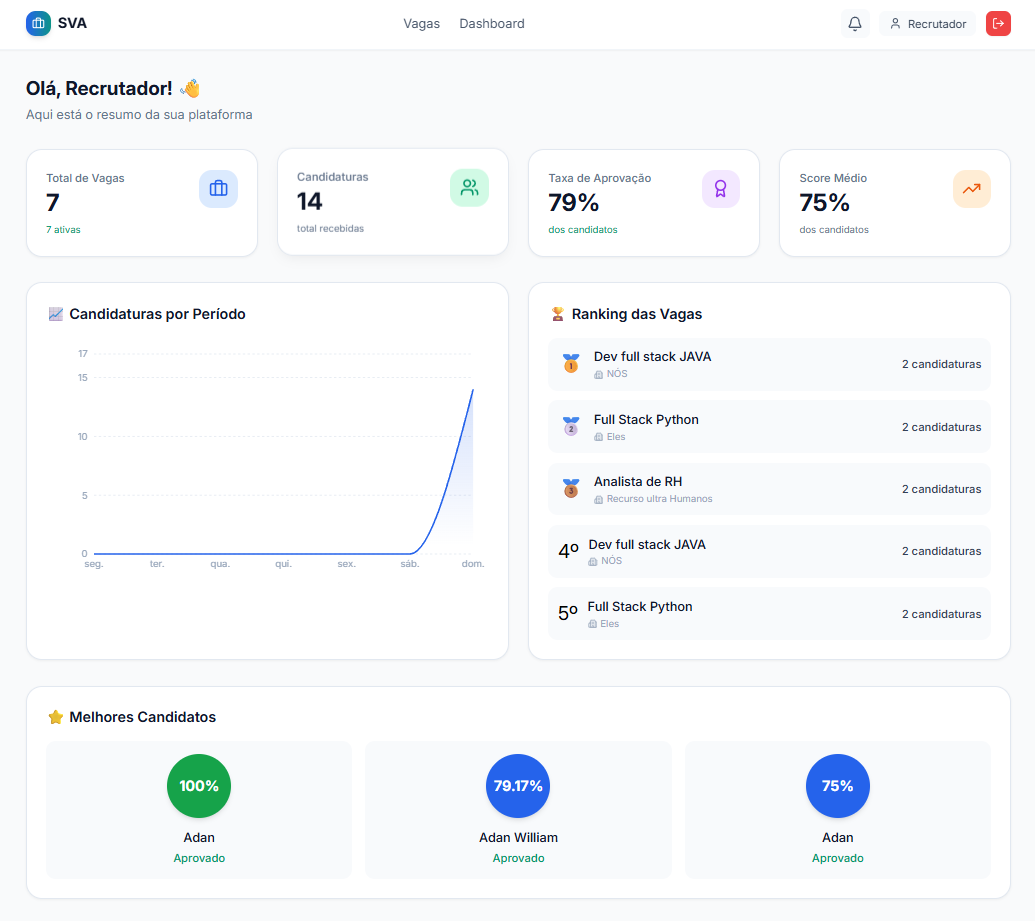
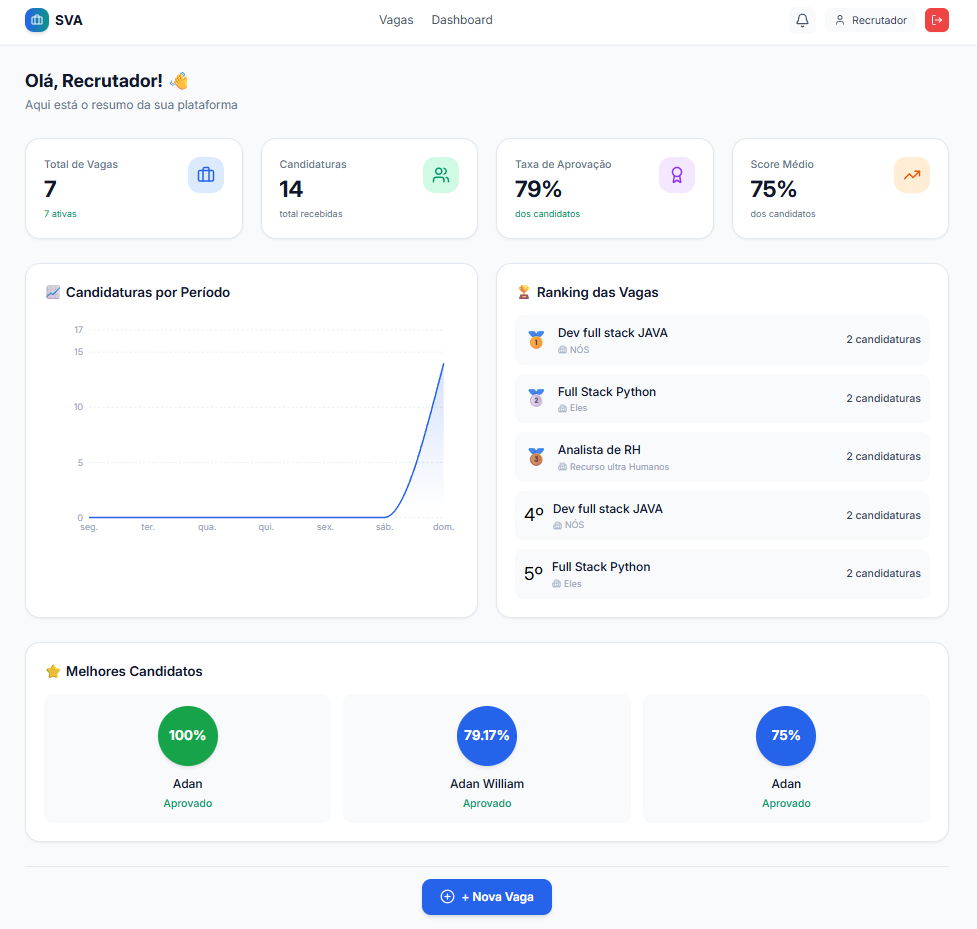
update

diff --git a/frontend/src/pages/PostJob.jsx b/frontend/src/pages/PostJob.jsx
@@ -2,7 +2,7 @@
 import { useNavigate } from 'react-router-dom';
 import { jobsAPI } from '../services/jobs';
 import { toast } from 'react-toastify';
-import { Briefcase, MapPin, DollarSign, FileText, List, Hash, X, Send } from 'lucide-react';
+import { Briefcase, MapPin, DollarSign, FileText, List, Hash, X, Send, Building2, Tag } from 'lucide-react';
 
 const PostJob = () => {
   const navigate = useNavigate();
@@ -42,101 +42,191 @@ const PostJob = () => {
   };
 
   return (
-    <div className="min-h-screen py-12 px-4 bg-gray-50 dark:bg-gray-900">
+    <div className="min-h-screen bg-slate-50 py-12 px-4">
       <div className="max-w-4xl mx-auto">
-        <div className="bg-white dark:bg-gray-800 rounded-2xl shadow-lg overflow-hidden">
-          <div className="gradient-bg px-8 py-6">
-            <div className="flex items-center gap-3">
-              <div className="bg-white/20 p-2 rounded-xl">
-                <Briefcase className="w-6 h-6 text-white" />
-              </div>
-              <div>
-                <h1 className="text-2xl font-bold text-white">Publicar Nova Vaga</h1>
-                <p className="text-white/80 text-sm mt-1">Preencha os dados abaixo para criar uma nova oportunidade</p>
-              </div>
-            </div>
-          </div>
+        {/* Header */}
+        <div className="mb-8">
+          <h1 className="text-2xl font-bold text-slate-900">Publicar Nova Vaga</h1>
+          <p className="text-slate-500 mt-1">Preencha os dados abaixo para criar uma nova oportunidade</p>
+        </div>
 
+        {/* Form Card */}
+        <div className="bg-white rounded-2xl shadow-sm border border-slate-200 overflow-hidden">
           <form onSubmit={handleSubmit} className="p-8 space-y-6">
             <div className="grid md:grid-cols-2 gap-6">
+              {/* Título */}
               <div className="md:col-span-2">
-                <label className="block text-sm font-medium text-gray-700 dark:text-gray-300 mb-2">Título da Vaga *</label>
+                <label className="block text-sm font-medium text-slate-700 mb-2">
+                  Título da Vaga <span className="text-red-500">*</span>
+                </label>
                 <div className="relative">
                   <div className="absolute inset-y-0 left-0 pl-3 flex items-center pointer-events-none">
-                    <Briefcase className="h-5 w-5 text-gray-400" />
+                    <Briefcase className="h-5 w-5 text-slate-400" />
                   </div>
-                  <input type="text" name="title" required className="w-full pl-10 pr-3 py-3 border border-gray-300 dark:border-gray-600 rounded-xl focus:outline-none focus:ring-2 focus:ring-blue-500 dark:bg-gray-700 dark:text-white transition" placeholder="Ex: Desenvolvedor Full Stack" value={formData.title} onChange={handleChange} />
+                  <input
+                    type="text"
+                    name="title"
+                    required
+                    className="w-full pl-10 pr-3 py-3 border border-slate-200 rounded-xl focus:outline-none focus:ring-2 focus:ring-blue-500 focus:border-blue-500 transition bg-white text-slate-900"
+                    placeholder="Ex: Desenvolvedor Full Stack"
+                    value={formData.title}
+                    onChange={handleChange}
+                  />
                 </div>
               </div>
 
+              {/* Empresa */}
               <div className="md:col-span-2">
-                <label className="block text-sm font-medium text-gray-700 dark:text-gray-300 mb-2">Empresa *</label>
+                <label className="block text-sm font-medium text-slate-700 mb-2">
+                  Empresa <span className="text-red-500">*</span>
+                </label>
                 <div className="relative">
                   <div className="absolute inset-y-0 left-0 pl-3 flex items-center pointer-events-none">
-                    <Briefcase className="h-5 w-5 text-gray-400" />
+                    <Building2 className="h-5 w-5 text-slate-400" />
                   </div>
-                  <input type="text" name="company" required className="w-full pl-10 pr-3 py-3 border border-gray-300 dark:border-gray-600 rounded-xl focus:outline-none focus:ring-2 focus:ring-blue-500 dark:bg-gray-700 dark:text-white transition" placeholder="Nome da empresa" value={formData.company} onChange={handleChange} />
+                  <input
+                    type="text"
+                    name="company"
+                    required
+                    className="w-full pl-10 pr-3 py-3 border border-slate-200 rounded-xl focus:outline-none focus:ring-2 focus:ring-blue-500 focus:border-blue-500 transition bg-white text-slate-900"
+                    placeholder="Nome da empresa"
+                    value={formData.company}
+                    onChange={handleChange}
+                  />
                 </div>
               </div>
 
+              {/* Localização */}
               <div>
-                <label className="block text-sm font-medium text-gray-700 dark:text-gray-300 mb-2">Localização</label>
+                <label className="block text-sm font-medium text-slate-700 mb-2">
+                  Localização
+                </label>
                 <div className="relative">
                   <div className="absolute inset-y-0 left-0 pl-3 flex items-center pointer-events-none">
-                    <MapPin className="h-5 w-5 text-gray-400" />
+                    <MapPin className="h-5 w-5 text-slate-400" />
                   </div>
-                  <input type="text" name="location" className="w-full pl-10 pr-3 py-3 border border-gray-300 dark:border-gray-600 rounded-xl focus:outline-none focus:ring-2 focus:ring-blue-500 dark:bg-gray-700 dark:text-white transition" placeholder="São Paulo, SP ou Remoto" value={formData.location} onChange={handleChange} />
+                  <input
+                    type="text"
+                    name="location"
+                    className="w-full pl-10 pr-3 py-3 border border-slate-200 rounded-xl focus:outline-none focus:ring-2 focus:ring-blue-500 focus:border-blue-500 transition bg-white text-slate-900"
+                    placeholder="São Paulo, SP ou Remoto"
+                    value={formData.location}
+                    onChange={handleChange}
+                  />
                 </div>
               </div>
 
+              {/* Faixa Salarial */}
               <div>
-                <label className="block text-sm font-medium text-gray-700 dark:text-gray-300 mb-2">Faixa Salarial</label>
+                <label className="block text-sm font-medium text-slate-700 mb-2">
+                  Faixa Salarial
+                </label>
                 <div className="relative">
                   <div className="absolute inset-y-0 left-0 pl-3 flex items-center pointer-events-none">
-                    <DollarSign className="h-5 w-5 text-gray-400" />
+                    <DollarSign className="h-5 w-5 text-slate-400" />
                   </div>
-                  <input type="text" name="salary_range" className="w-full pl-10 pr-3 py-3 border border-gray-300 dark:border-gray-600 rounded-xl focus:outline-none focus:ring-2 focus:ring-blue-500 dark:bg-gray-700 dark:text-white transition" placeholder="R$ 5.000 - R$ 8.000" value={formData.salary_range} onChange={handleChange} />
+                  <input
+                    type="text"
+                    name="salary_range"
+                    className="w-full pl-10 pr-3 py-3 border border-slate-200 rounded-xl focus:outline-none focus:ring-2 focus:ring-blue-500 focus:border-blue-500 transition bg-white text-slate-900"
+                    placeholder="R$ 5.000 - R$ 8.000"
+                    value={formData.salary_range}
+                    onChange={handleChange}
+                  />
                 </div>
               </div>
 
+              {/* Descrição */}
               <div className="md:col-span-2">
-                <label className="block text-sm font-medium text-gray-700 dark:text-gray-300 mb-2">Descrição da Vaga *</label>
+                <label className="block text-sm font-medium text-slate-700 mb-2">
+                  Descrição da Vaga <span className="text-red-500">*</span>
+                </label>
                 <div className="relative">
                   <div className="absolute top-3 left-3 pointer-events-none">
-                    <FileText className="h-5 w-5 text-gray-400" />
+                    <FileText className="h-5 w-5 text-slate-400" />
                   </div>
-                  <textarea name="description" required rows="6" className="w-full pl-10 pr-3 py-3 border border-gray-300 dark:border-gray-600 rounded-xl focus:outline-none focus:ring-2 focus:ring-blue-500 dark:bg-gray-700 dark:text-white transition" placeholder="Descreva as responsabilidades, atividades do dia a dia, benefícios..." value={formData.description} onChange={handleChange} />
+                  <textarea
+                    name="description"
+                    required
+                    rows="6"
+                    className="w-full pl-10 pr-3 py-3 border border-slate-200 rounded-xl focus:outline-none focus:ring-2 focus:ring-blue-500 focus:border-blue-500 transition bg-white text-slate-900"
+                    placeholder="Descreva as responsabilidades, atividades do dia a dia, benefícios..."
+                    value={formData.description}
+                    onChange={handleChange}
+                  />
                 </div>
+                <p className="mt-1 text-xs text-slate-400">Descreva detalhadamente as atividades e benefícios da vaga</p>
               </div>
 
+              {/* Requisitos */}
               <div className="md:col-span-2">
-                <label className="block text-sm font-medium text-gray-700 dark:text-gray-300 mb-2">Requisitos (um por linha)</label>
+                <label className="block text-sm font-medium text-slate-700 mb-2">
+                  Requisitos (um por linha)
+                </label>
                 <div className="relative">
                   <div className="absolute top-3 left-3 pointer-events-none">
-                    <List className="h-5 w-5 text-gray-400" />
+                    <List className="h-5 w-5 text-slate-400" />
                   </div>
-                  <textarea name="requirements" rows="4" className="w-full pl-10 pr-3 py-3 border border-gray-300 dark:border-gray-600 rounded-xl focus:outline-none focus:ring-2 focus:ring-blue-500 dark:bg-gray-700 dark:text-white transition" placeholder="Experiência com Python&#10;Conhecimento em React&#10;Inglês avançado" value={formData.requirements} onChange={handleChange} />
+                  <textarea
+                    name="requirements"
+                    rows="4"
+                    className="w-full pl-10 pr-3 py-3 border border-slate-200 rounded-xl focus:outline-none focus:ring-2 focus:ring-blue-500 focus:border-blue-500 transition bg-white text-slate-900"
+                    placeholder="Experiência com Python&#10;Conhecimento em React&#10;Inglês avançado"
+                    value={formData.requirements}
+                    onChange={handleChange}
+                  />
                 </div>
+                <p className="mt-1 text-xs text-slate-400">Adicione um requisito por linha</p>
               </div>
 
+              {/* Habilidades */}
               <div className="md:col-span-2">
-                <label className="block text-sm font-medium text-gray-700 dark:text-gray-300 mb-2">Habilidades Requeridas (separadas por vírgula)</label>
+                <label className="block text-sm font-medium text-slate-700 mb-2">
+                  Habilidades Requeridas (separadas por vírgula)
+                </label>
                 <div className="relative">
                   <div className="absolute inset-y-0 left-0 pl-3 flex items-center pointer-events-none">
-                    <Hash className="h-5 w-5 text-gray-400" />
+                    <Tag className="h-5 w-5 text-slate-400" />
                   </div>
-                  <input type="text" name="skills_required" className="w-full pl-10 pr-3 py-3 border border-gray-300 dark:border-gray-600 rounded-xl focus:outline-none focus:ring-2 focus:ring-blue-500 dark:bg-gray-700 dark:text-white transition" placeholder="Python, React, SQL, Docker" value={formData.skills_required} onChange={handleChange} />
+                  <input
+                    type="text"
+                    name="skills_required"
+                    className="w-full pl-10 pr-3 py-3 border border-slate-200 rounded-xl focus:outline-none focus:ring-2 focus:ring-blue-500 focus:border-blue-500 transition bg-white text-slate-900"
+                    placeholder="Python, React, SQL, Docker"
+                    value={formData.skills_required}
+                    onChange={handleChange}
+                  />
                 </div>
+                <p className="mt-1 text-xs text-slate-400">Exemplo: Python, React, SQL, Git, Docker</p>
               </div>
             </div>
 
-            <div className="flex gap-4 pt-6 border-t border-gray-200 dark:border-gray-700">
-              <button type="button" onClick={() => navigate('/dashboard')} className="flex-1 flex items-center justify-center gap-2 px-4 py-3 border-2 border-gray-300 dark:border-gray-600 rounded-xl text-gray-700 dark:text-gray-300 font-medium hover:bg-gray-50 dark:hover:bg-gray-700 transition">
+            {/* Botões */}
+            <div className="flex gap-4 pt-6 border-t border-slate-200">
+              <button
+                type="button"
+                onClick={() => navigate('/dashboard')}
+                className="flex-1 flex items-center justify-center gap-2 px-4 py-3 border-2 border-slate-300 rounded-xl text-slate-700 font-medium hover:bg-slate-50 transition"
+              >
                 <X className="w-5 h-5" />
                 Cancelar
               </button>
-              <button type="submit" disabled={loading} className="flex-1 flex items-center justify-center gap-2 px-4 py-3 bg-blue-600 text-white rounded-xl font-semibold hover:bg-blue-700 transition disabled:opacity-50">
-                {loading ? <div className="animate-spin rounded-full h-5 w-5 border-b-2 border-white"></div> : <><Send className="w-5 h-5" /> Publicar Vaga</>}
+              <button
+                type="submit"
+                disabled={loading}
+                className="flex-1 flex items-center justify-center gap-2 px-4 py-3 bg-blue-600 text-white rounded-xl font-semibold hover:bg-blue-700 transition disabled:opacity-50 shadow-sm hover:shadow-md"
+              >
+                {loading ? (
+                  <>
+                    <div className="animate-spin rounded-full h-5 w-5 border-b-2 border-white"></div>
+                    Publicando...
+                  </>
+                ) : (
+                  <>
+                    <Send className="w-5 h-5" />
+                    Publicar Vaga
+                  </>
+                )}
               </button>
             </div>
           </form>

diff --git a/frontend/src/pages/Dashboard.jsx b/frontend/src/pages/Dashboard.jsx
@@ -4,8 +4,8 @@ import { useAuth } from '../context/AuthContext';
 import { jobsAPI } from '../services/jobs';
 import { applicationsAPI } from '../services/applications';
 import { resumesAPI } from '../services/resumes';
-import { Briefcase, Users, TrendingUp, Award, Eye, PlusCircle, FileText, ClipboardList, Star, Clock, CheckCircle, XCircle, Building2, MapPin, DollarSign } from 'lucide-react';
-import { AreaChart, Area, XAxis, YAxis, CartesianGrid, Tooltip, ResponsiveContainer, PieChart, Pie, Cell } from 'recharts';
+import { Briefcase, Users, TrendingUp, Award, Eye, PlusCircle, FileText, ClipboardList, Star, Clock, CheckCircle, XCircle, Building2 } from 'lucide-react';
+import { AreaChart, Area, XAxis, YAxis, CartesianGrid, Tooltip, ResponsiveContainer } from 'recharts';
 
 const COLORS = ['#22C55E', '#3B82F6', '#F59E0B', '#EF4444'];
 
@@ -16,6 +16,7 @@ const RecruiterDashboard = ({ jobs, applications }) => {
   const acceptedApps = applications.filter(a => a.status === 'accepted').length;
   const approvalRate = totalApps > 0 ? ((acceptedApps / totalApps) * 100).toFixed(0) : 0;
 
+  // Agrupar vagas únicas
   const uniqueJobs = jobs.reduce((acc, job) => {
     if (!acc.find(j => j.id === job.id)) {
       acc.push(job);
@@ -48,6 +49,7 @@ const RecruiterDashboard = ({ jobs, applications }) => {
 
   return (
     <div>
+      {/* Stats Grid - sem botão no topo */}
       <div className="grid grid-cols-1 md:grid-cols-4 gap-6 mb-8">
         <div className="stat-card"><div className="flex justify-between"><div><p className="text-slate-500 text-sm font-medium">Total de Vagas</p><p className="text-3xl font-bold text-slate-900 mt-1">{uniqueJobs.length}</p><p className="text-xs text-emerald-600 mt-2">{activeJobs} ativas</p></div><div className="w-12 h-12 bg-blue-100 rounded-2xl flex items-center justify-center"><Briefcase className="w-6 h-6 text-blue-600" /></div></div></div>
         <div className="stat-card"><div className="flex justify-between"><div><p className="text-slate-500 text-sm font-medium">Candidaturas</p><p className="text-3xl font-bold text-slate-900 mt-1">{totalApps}</p><p className="text-xs text-slate-500 mt-2">total recebidas</p></div><div className="w-12 h-12 bg-emerald-100 rounded-2xl flex items-center justify-center"><Users className="w-6 h-6 text-emerald-600" /></div></div></div>
@@ -64,7 +66,7 @@ const RecruiterDashboard = ({ jobs, applications }) => {
               <CartesianGrid strokeDasharray="3 3" stroke="#E2E8F0" vertical={false} />
               <XAxis dataKey="date" stroke="#94A3B8" fontSize={12} axisLine={false} tickLine={false} />
               <YAxis stroke="#94A3B8" fontSize={12} axisLine={false} tickLine={false} domain={[0, yAxisMax]} />
-              <Tooltip contentStyle={{ backgroundColor: '#FFFFFF', borderRadius: '12px', border: '1px solid #E2E8F0', boxShadow: '0 4px 12px rgba(0,0,0,0.05)' }} />
+              <Tooltip contentStyle={{ backgroundColor: '#FFFFFF', borderRadius: '12px', border: '1px solid #E2E8F0' }} />
               <Area type="monotone" dataKey="count" stroke="#2563EB" strokeWidth={2} fill="url(#colorCount)" />
             </AreaChart>
           </ResponsiveContainer>
@@ -107,11 +109,19 @@ const RecruiterDashboard = ({ jobs, applications }) => {
           {topCandidates.length === 0 && <p className="text-center text-slate-500 py-8 col-span-3">Nenhum candidato ainda</p>}
         </div>
       </div>
+
+      {/* Botão Nova Vaga - apenas no rodapé */}
+      <div className="text-center pt-4 border-t border-slate-200 mt-4">
+        <Link to="/post-job" className="inline-flex items-center gap-2 px-6 py-3 bg-blue-600 text-white rounded-xl font-semibold hover:bg-blue-700 transition-all duration-300 shadow-md hover:shadow-lg">
+          <PlusCircle className="w-5 h-5" />
+          + Nova Vaga
+        </Link>
+      </div>
     </div>
   );
 };
 
-// Dashboard do Candidato - Melhorado
+// Dashboard do Candidato (mantido igual)
 const CandidateDashboard = ({ resumes, applications }) => {
   const avgScore = applications.length > 0 ? (applications.reduce((a,b) => a + (b.compatibility_score || 0), 0) / applications.length).toFixed(0) : 0;
   const bestScore = applications.length > 0 ? Math.max(...applications.map(a => a.compatibility_score || 0)) : 0;
@@ -136,7 +146,6 @@ const CandidateDashboard = ({ resumes, applications }) => {
 
   return (
     <div>
-      {/* Stats Cards */}
       <div className="grid grid-cols-1 md:grid-cols-4 gap-6 mb-8">
         <div className="stat-card"><div className="flex justify-between"><div><p className="text-slate-500 text-sm font-medium">Meus Currículos</p><p className="text-3xl font-bold text-slate-900 mt-1">{resumes.length}</p><Link to="/resume" className="text-xs text-blue-600 mt-2 inline-block hover:underline">Gerenciar →</Link></div><div className="w-12 h-12 bg-blue-100 rounded-2xl flex items-center justify-center"><FileText className="w-6 h-6 text-blue-600" /></div></div></div>
         <div className="stat-card"><div className="flex justify-between"><div><p className="text-slate-500 text-sm font-medium">Candidaturas</p><p className="text-3xl font-bold text-slate-900 mt-1">{applications.length}</p><Link to="/applications" className="text-xs text-blue-600 mt-2 inline-block hover:underline">Ver todas →</Link></div><div className="w-12 h-12 bg-emerald-100 rounded-2xl flex items-center justify-center"><ClipboardList className="w-6 h-6 text-emerald-600" /></div></div></div>
@@ -144,49 +153,25 @@ const CandidateDashboard = ({ resumes, applications }) => {
         <div className="stat-card"><div className="flex justify-between"><div><p className="text-slate-500 text-sm font-medium">Melhor Score</p><p className="text-3xl font-bold text-slate-900 mt-1">{bestScore}%</p><Link to="/applications" className="text-xs text-blue-600 mt-2 inline-block hover:underline">Ver detalhes →</Link></div><div className="w-12 h-12 bg-orange-100 rounded-2xl flex items-center justify-center"><Star className="w-6 h-6 text-orange-600" /></div></div></div>
       </div>
 
-      {/* Últimas Candidaturas - com título da vaga e empresa */}
       {applications.length > 0 && (
         <div className="card p-6">
           <div className="flex justify-between items-center mb-6">
             <h3 className="text-lg font-semibold text-slate-900">📋 Últimas Candidaturas</h3>
-            <Link to="/applications" className="text-sm text-blue-600 hover:text-blue-700 font-medium flex items-center gap-1">
-              Ver todas
-              <Eye className="w-4 h-4" />
-            </Link>
+            <Link to="/applications" className="text-sm text-blue-600 hover:text-blue-700 font-medium flex items-center gap-1">Ver todas <Eye className="w-4 h-4" /></Link>
           </div>
           <div className="space-y-4">
             {applications.slice(0, 5).map(app => (
               <div key={app.id} className="flex flex-col md:flex-row justify-between items-start md:items-center p-4 bg-slate-50 rounded-xl gap-3">
                 <div className="flex-1">
-                  <div className="flex items-center gap-2 flex-wrap">
-                    <p className="font-semibold text-slate-900">{app.job_title || `Vaga #${app.job_id}`}</p>
-                    {app.job_company && (
-                      <div className="flex items-center gap-1">
-                        <Building2 className="w-3 h-3 text-slate-400" />
-                        <p className="text-xs text-slate-500">{app.job_company}</p>
-                      </div>
-                    )}
-                  </div>
-                  {app.job_location && (
-                    <div className="flex items-center gap-1 mt-1">
-                      <MapPin className="w-3 h-3 text-slate-400" />
-                      <p className="text-xs text-slate-400">{app.job_location}</p>
-                    </div>
-                  )}
+                  <p className="font-semibold text-slate-900">{app.job_title || `Vaga #${app.job_id}`}</p>
+                  {app.job_company && <div className="flex items-center gap-1 mt-1"><Building2 className="w-3 h-3 text-slate-400" /><p className="text-xs text-slate-500">{app.job_company}</p></div>}
                   <p className="text-xs text-slate-400 mt-1">{new Date(app.applied_at).toLocaleDateString('pt-BR')}</p>
                 </div>
                 <div className="flex items-center gap-3">
-                  <div className={`w-12 h-12 rounded-full flex items-center justify-center text-white font-bold shadow-sm transition-all duration-300 ${getScoreOpacity(app.status)} ${
-                    app.compatibility_score >= 80 ? 'bg-green-600' : 
-                    app.compatibility_score >= 60 ? 'bg-blue-600' : 
-                    app.compatibility_score >= 40 ? 'bg-yellow-600' : 
-                    'bg-red-600'
-                  }`}>
+                  <div className={`w-12 h-12 rounded-full flex items-center justify-center text-white font-bold shadow-sm transition-all duration-300 ${getScoreOpacity(app.status)} ${app.compatibility_score >= 80 ? 'bg-green-600' : app.compatibility_score >= 60 ? 'bg-blue-600' : app.compatibility_score >= 40 ? 'bg-yellow-600' : 'bg-red-600'}`}>
                     {app.compatibility_score || 0}%
                   </div>
-                  <span className={`px-3 py-1 rounded-full text-xs font-medium border ${getStatusColor(app.status)}`}>
-                    {getStatusText(app.status)}
-                  </span>
+                  <span className={`px-3 py-1 rounded-full text-xs font-medium border ${getStatusColor(app.status)}`}>{getStatusText(app.status)}</span>
                 </div>
               </div>
             ))}
@@ -202,15 +187,12 @@ const CandidateDashboard = ({ resumes, applications }) => {
         </div>
       )}
 
-      {/* Botões de ação - versão melhorada */}
       <div className="flex flex-col sm:flex-row gap-4 justify-center mt-8">
         <Link to="/jobs" className="px-6 py-2.5 bg-blue-600 text-white rounded-xl font-medium hover:bg-blue-700 transition-all duration-300 shadow-sm hover:shadow-md flex items-center justify-center gap-2">
-          <Briefcase className="w-4 h-4" />
-          Buscar Vagas
+          <Briefcase className="w-4 h-4" /> Buscar Vagas
         </Link>
         <Link to="/resume" className="px-6 py-2.5 bg-white text-blue-600 border-2 border-blue-600 rounded-xl font-medium hover:bg-blue-50 transition-all duration-300 flex items-center justify-center gap-2">
-          <FileText className="w-4 h-4" />
-          {resumes.length === 0 ? 'Cadastrar Currículo' : 'Atualizar Currículo'}
+          <FileText className="w-4 h-4" /> {resumes.length === 0 ? 'Cadastrar Currículo' : 'Atualizar Currículo'}
         </Link>
       </div>
     </div>